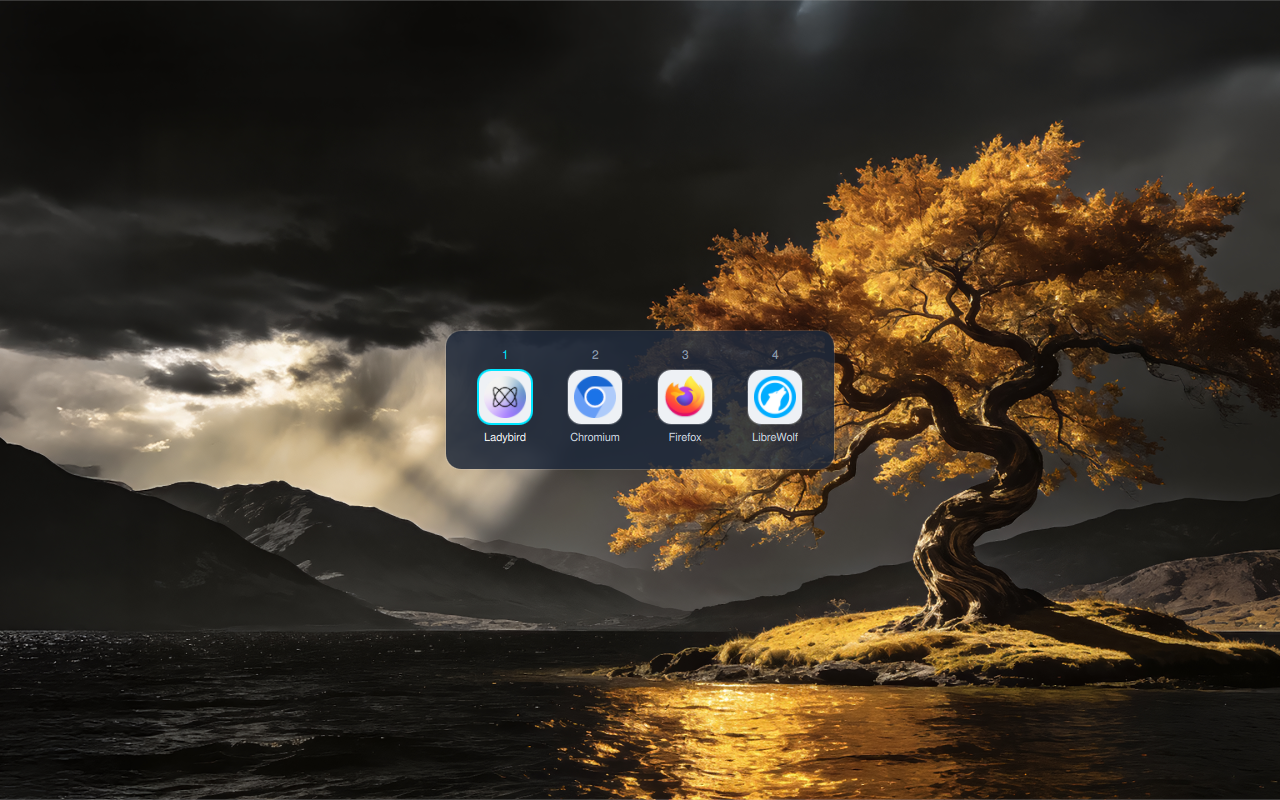
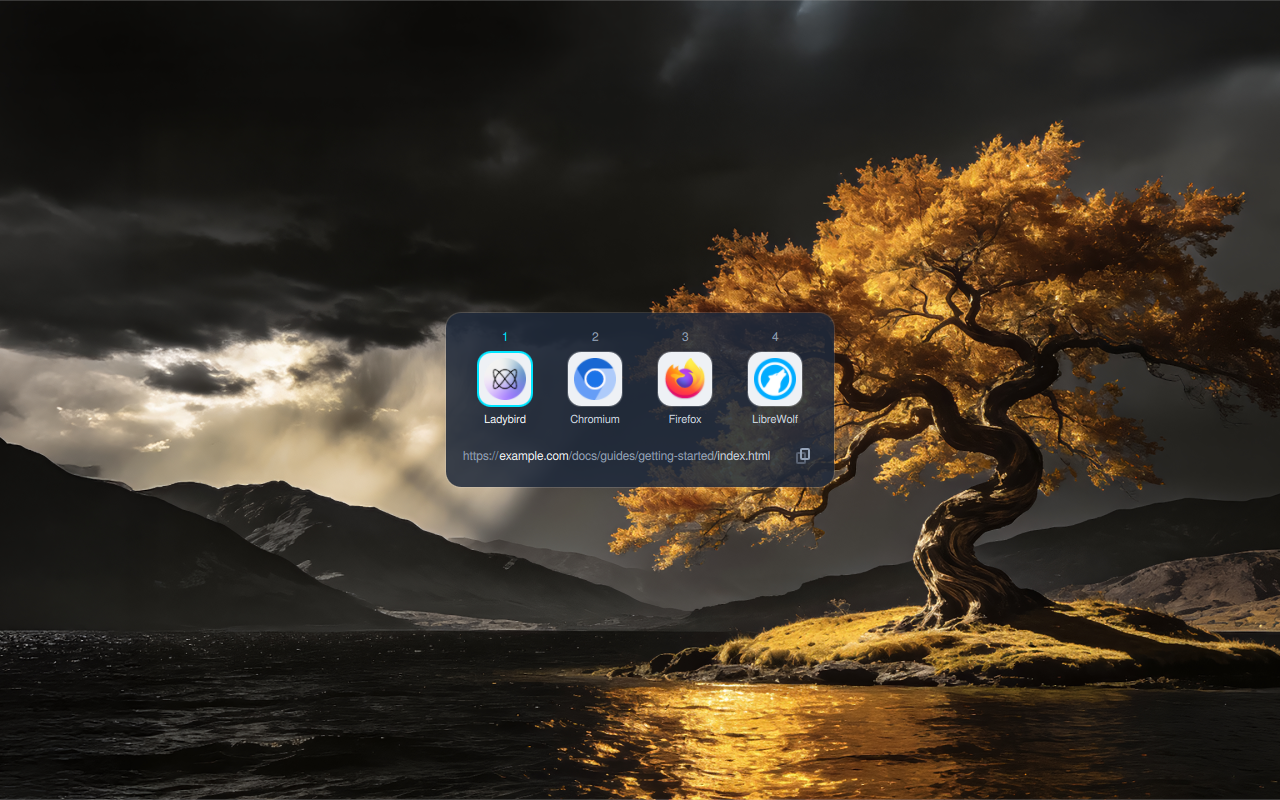
docs: focus-follow requires native-Wayland browsers
Document what the token redemption needs (native Wayland, per-browser
notes, chromium-flags.conf example), how the running-instance
transports carry the token in-band, and the queue carousel behavior.
New picker screenshot: four installed browsers over the idle desktop
with a pathed target in the footer.

Changed region(s): [[0.3438, 0.375, 0.6562, 0.625]]

diff --git a/README.md b/README.md
@@ -112,6 +112,49 @@ defaults on first run:
   and attaches it to the launched browser so the receiving window takes
   focus. Set it to `false` to never mint or attach the token.
 
+## Focus-follow expectations
+
+Focus-follow works when the browser can redeem xdg-activation tokens,
+i.e. **runs native Wayland** and knows how to use the token:
+
+- Firefox and native-Wayland Chromium redeem it on cold start and on
+  remote-open of a running instance (the token rides the remoting
+  payload, in-band).
+- For Chromium-family browsers on X11-default desktop files, focus
+  stays put. Run native Wayland instead — e.g.
+  `--ozone-platform=wayland` on the command line, or persistently in
+  `~/.config/chromium-flags.conf`:
+  ```
+  --ozone-platform=wayland
+  ```
+- The token rides D-Bus `platform_data` on the `Application.Open` /
+  `org.gtk.Application.Activate` transport paths for running instances
+  that speak those (GLib/Gtk apps), and the Mozilla `OpenURL`
+  command-line blob for Firefox.
+
+## Transports
+
+At pick time, for a **running** instance, Luch talks to the browser
+through its own remoting channel instead of spawning a new process —
+in this order, falling back down the chain on any failure:
+
+1. **D-Bus** — Mozilla remote (`OpenURL(ay)` on
+   `org.mozilla.<app>.<profile>`) for Firefox/Thunderbird/LibreWolf;
+   `org.freedesktop.Application.Open` for apps implementing it;
+   `org.gtk.Application.Activate` with the app's startup context for
+   GTK/GApplication browsers (GNOME Web).
+2. **Chromium singleton socket** — `<profile>/SingletonSocket` per
+   Chromium's own client protocol (cookie-verified, retry loop).
+3. **CLI spawn** — always the floor; also the whole story for cold
+   starts.
+
+A second `luch` invocation while the picker is open forwards its target
+into the same popup as a queued item (D-Bus `app.luch` when a session
+bus is available, `QLocalServer` socket otherwise), shown as a carousel
+(counter badge, chevrons, indicator dots); `Shift+←/→` moves between
+queued targets, `Esc` dismisses the current one, `Shift+Esc` drops the
+whole queue.
+
 ## License
 
 GPL-3.0-or-later — see [LICENSE](LICENSE). REUSE-compliant via
